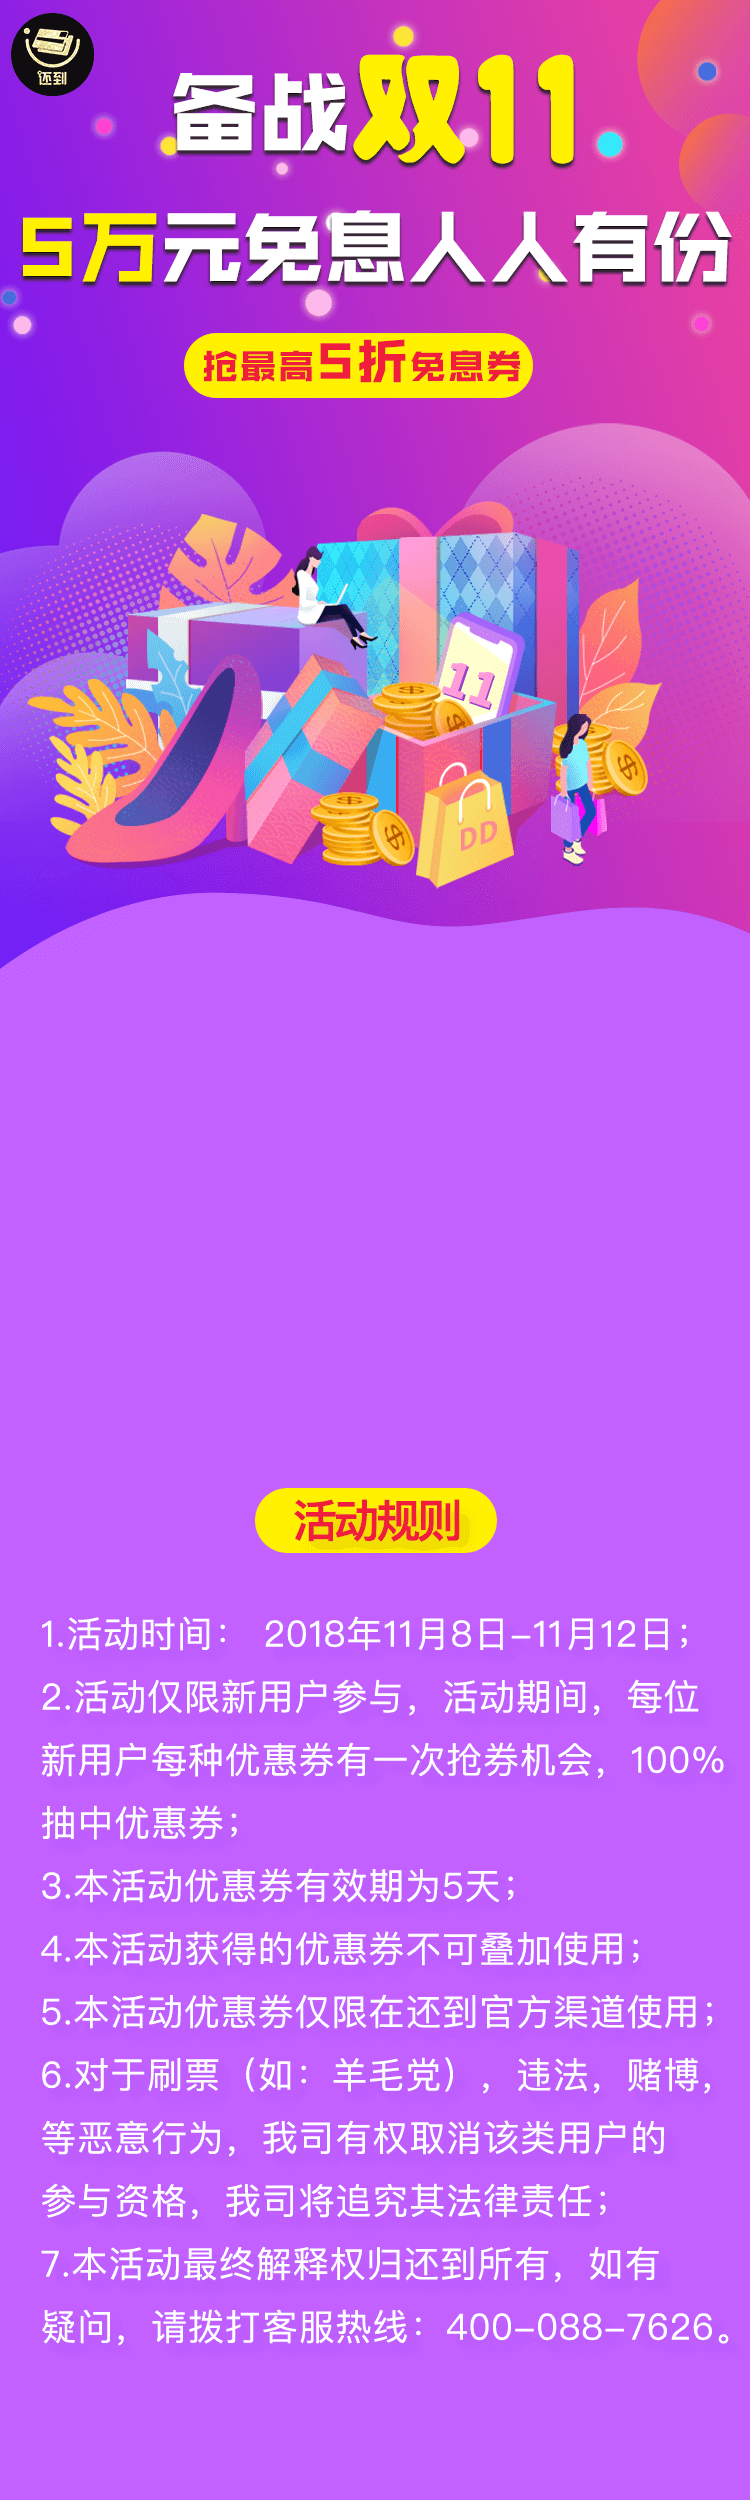
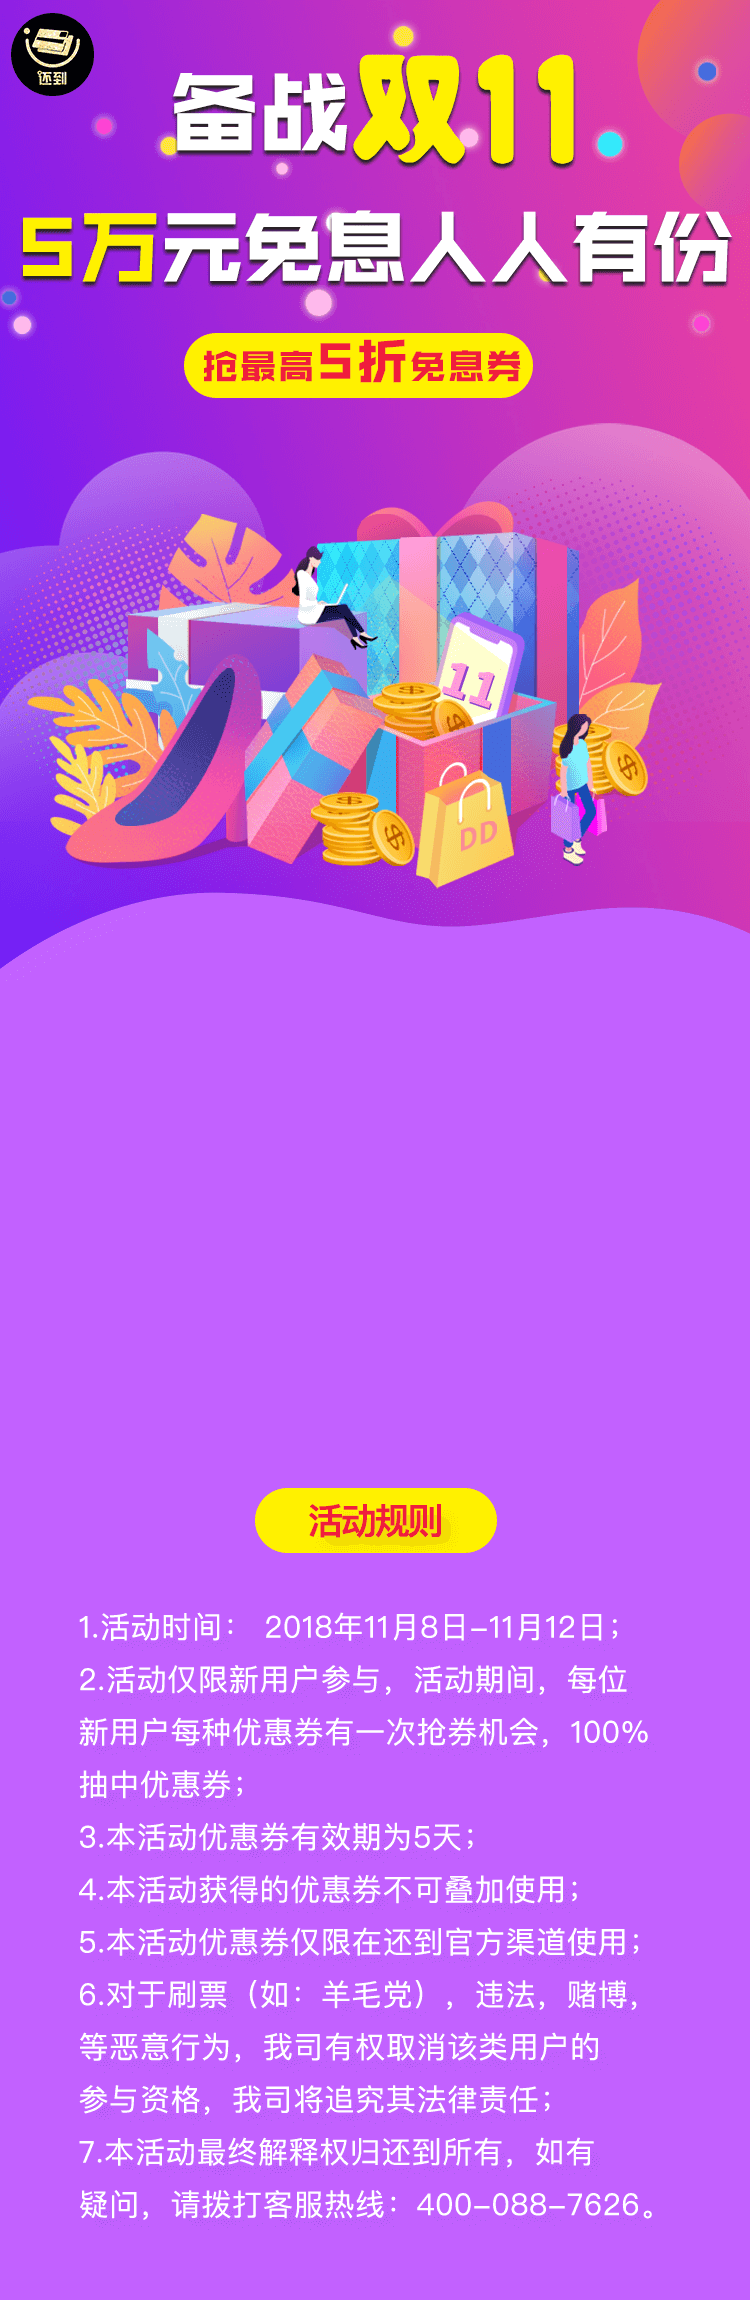
换背景图

Changed region(s): [[0.0, 0.0, 1.0, 0.4322], [0.0613, 0.5865, 0.9507, 0.9878], [0.828, 0.6483, 0.9507, 0.71]]

diff --git a/src/pages/activity/shuang11_page/index.js b/src/pages/activity/shuang11_page/index.js
@@ -96,7 +96,8 @@ export default class shuang11_page extends PureComponent {
 				type
 			});
 			return;
-		}
+        }
+        store.setTokenSession(token)
 		this.typeUp(type);
 	};
 
